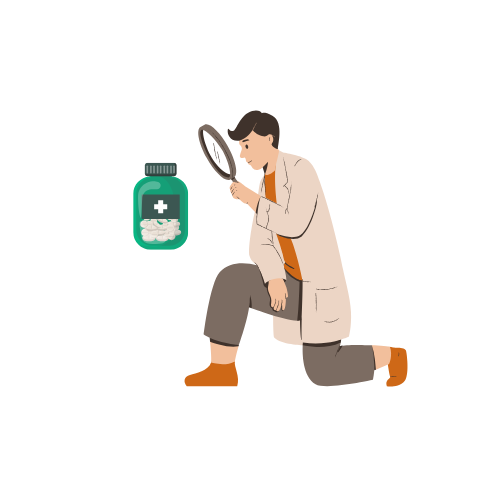
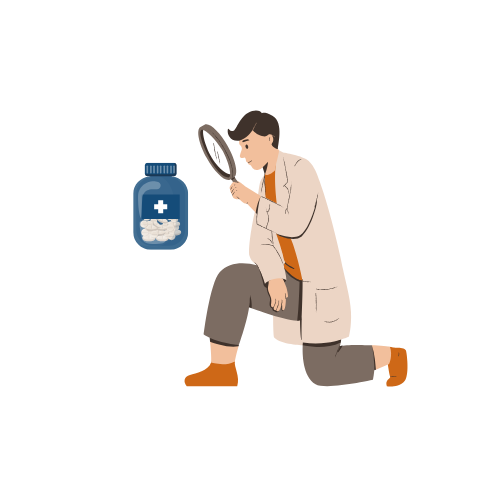
change of colors and sign-in page almost done

Changed region(s): [[0.24, 0.3, 0.39, 0.51]]

diff --git a/app/(auth)/sign-in.jsx b/app/(auth)/sign-in.jsx
@@ -1,10 +1,56 @@
-import { View, Text } from 'react-native'
-import { SafeAreaView } from 'react-native-safe-area-context'
+import { Text, View, Image, TouchableOpacity } from 'react-native';
+import { SafeAreaView } from 'react-native-safe-area-context';
+import { images } from '../../constants';
+import { StatusBar } from 'expo-status-bar';
+import { Redirect, router } from 'expo-router';
+import FormField from '../../components/FormField';
+import CustomButton from '../../components/CustomButton';
+import { useState } from 'react';
+
 
 const signIn = () => {
+
+  const [form, setForm] = useState({
+    email: '',
+    password: '',
+  });
+
   return (
-    <SafeAreaView>
-      <Text>signIn</Text>
+    <SafeAreaView className="bg-white h-full">
+      <View className="flex-1 min-h-[85vh] w-full">
+
+        <Image
+          source={images.wavyShape_signIn}
+          resizeMode="cover"
+          style={{
+            width: '100%',
+            height: 320,
+            position: 'absolute',
+            top: -65,
+          }}
+        />
+        <Text className="text-primary font-rsemibold text-[40px] justify-center items-center"
+          style={{
+            width: '100%',
+            position: 'absolute',
+            top: 300, 
+            left: 40
+          }}
+        >
+          Welcome{'\n'}Back!
+        </Text>
+        <View style={{ flex: 1, justifyContent: 'flex-end', marginBottom: 40, paddingHorizontal: 20 }}>
+          <FormField 
+            title="Email"
+            placeholder={'Enter your email'}
+            value={form.email}
+            handleChangeText={(e) => setForm({ ...form, email: e })}
+            otherStyles="mt-7"
+            keyboardType="email-address"
+          />
+        </View>
+      <StatusBar style="auto" />
+    </View>
     </SafeAreaView>
   )
 }

diff --git a/components/FormField.jsx b/components/FormField.jsx
@@ -1,0 +1,31 @@
+import { View, Text, TextInput, TouchableOpacity } from 'react-native'
+import React, { useState } from 'react'
+
+const FormField = ({ title, value, handleChangeText, otherStyles, placeholder, ...props }) => {
+
+    const [showPassword, setShowPassword] = useState(false);
+
+  return (
+    <View className={`space-y-2 ${otherStyles}`}>
+      <Text className="text-base text-gray-100 font-rmedium">{title}</Text>
+      
+      <View className="border-2 border-primary w-full h-16 px-8 rounded-full focus:border-primary flex-row items-center">
+        <TextInput 
+            className="flex-1 text-white font-rsemibold text-base"
+            value={value}
+            placeholder={placeholder}
+            placeholderTextColor="#7D7D7D"
+            onChangeText={handleChangeText}
+            secureTextEntry={title === 'Password' && !showPassword}
+        />
+        {title === 'Password' && (
+            <TouchableOpacity onPress={() => setShowPassword(!showPassword)}>
+                <Text className="text-black font-rsemibold text-base">{showPassword ? 'Hide' : 'Show'}</Text>
+            </TouchableOpacity>
+        )}
+      </View>
+    </View>
+  )
+}
+
+export default FormField

diff --git a/app/index.jsx b/app/index.jsx
@@ -56,13 +56,13 @@ export default function App() {
           <CustomButton 
             title="Sign In"
             handlePress={() => router.push('/sign-in')}
-            containerStyle="bg-primary mt-4 rounded-full justify-center items-center min-h-[55px]"
+            containerStyle="bg-primary mt-4 rounded-[15px] justify-center items-center min-h-[55px]"
             textStyle={"text-white font-rmedium text-[18px]"}
             />
           <CustomButton 
             title="Create New Account"
             handlePress={() => router.push('/sign-up')}
-            containerStyle="bg-[#ECECEC] mt-4 rounded-full justify-center items-center min-h-[55px]"
+            containerStyle="bg-[#ECECEC] mt-4 rounded-[15px] justify-center items-center min-h-[55px]"
             textStyle={"text-[#373737] font-rmedium text-[18px]"}
             />
         </View>

diff --git a/constants/images.js b/constants/images.js
@@ -1,9 +1,11 @@
 import investegator from '../assets/images/investegator.png';
 import wavyShape from '../assets/images/wavyShape.png';
+import wavyShape_signIn from '../assets/images/wavyShape-signIn.png';
 
 const images = {
     investegator, 
-    wavyShape, 
+    wavyShape,
+    wavyShape_signIn,
 };
 
 export default images;

diff --git a/app/(tabs)/_layout.jsx b/app/(tabs)/_layout.jsx
@@ -29,7 +29,7 @@ const tabsLayout = () => {
       <Tabs
         screenOptions={{ 
           tabBarShowLabel: false,
-          tabBarActiveTintColor: '#09B683',
+          tabBarActiveTintColor: '#154C79',
           tabBarInactiveTintColor: '#7D7D7D',
           tabBarStyle: {
             backgroundColor: '#ffffff',

diff --git a/app/_layout.jsx b/app/_layout.jsx
@@ -29,6 +29,7 @@ const RootLayout = () => {
   return (
     <Stack>
       <Stack.Screen name="index" options={{ headerShown: false }} />
+      <Stack.Screen name="(auth)" options={{ headerShown: false }} />
     </Stack>
   )
 }

diff --git a/tailwind.config.js b/tailwind.config.js
@@ -5,7 +5,7 @@ module.exports = {
   theme: {
     extend: {
       colors: {
-        primary: "#09B683",
+        primary: "#154C79",
       },
       fontFamily: {
         rConLight: ["Roboto_Condensed-Light", "sans-serif"],
